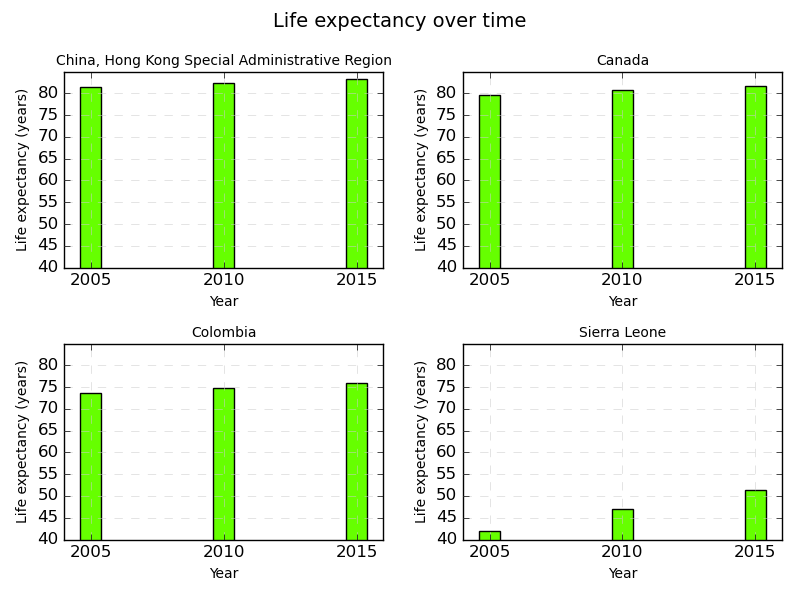
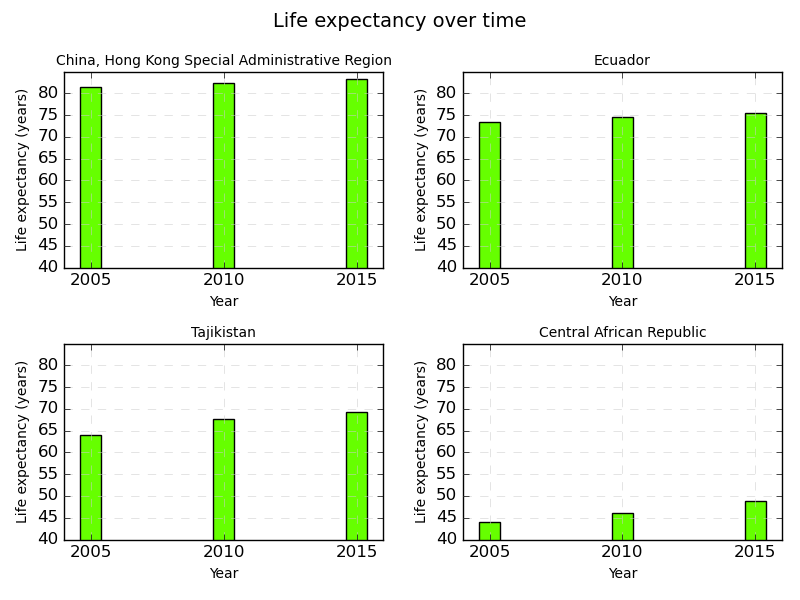
dont hardcode country names

diff --git a/main.py b/main.py
@@ -422,8 +422,6 @@ def export_life_expectancy_as_matplotlib(data: pd.DataFrame) -> None:
     Returns:
         None.
     """
-    plt.style.use("classic")
-    figure = plt.figure()
 
     def _plot_country(country: str) -> None:
         """Plot the data associated to a country.
@@ -449,15 +447,32 @@ def export_life_expectancy_as_matplotlib(data: pd.DataFrame) -> None:
         plt.ylabel("Life expectancy (years)", fontsize=10)
         plt.title(country, fontsize=10)
 
+    plt.style.use("classic")
+    figure = plt.figure()
+
+    # List with the countries ordered by life expectancy
+    countries_sorted: pd.Index = (
+        data.groupby(
+            "Country or Area",
+        )["Life expectancy at birth for both sexes (years)"]
+        .max()
+        .sort_values(ascending=False)
+        .index.unique("Country or Area")
+    )
+
+    # Pick only 4 countries,
+    # the one with max life expectancy,
+    # the one with the min life expectancy,
+    # and 2 in between
+    selected_countries: Tuple[str, ...] = countries_sorted[
+        np.linspace(0, len(countries_sorted) - 1, num=4, dtype=np.uint64)
+    ]
+
     figure.suptitle("Life expectancy over time", fontsize=14)
-    plt.subplot(2, 2, 1)
-    _plot_country("China, Hong Kong Special Administrative Region")
-    plt.subplot(2, 2, 2)
-    _plot_country("Canada")
-    plt.subplot(2, 2, 3)
-    _plot_country("Colombia")
-    plt.subplot(2, 2, 4)
-    _plot_country("Sierra Leone")
+    for index in range(4):
+        plt.subplot(2, 2, index + 1)
+        _plot_country(selected_countries[index])
+
     figure.tight_layout(h_pad=1, w_pad=2)
     figure.savefig("life-expectancy-over-time.png")
 
@@ -471,10 +486,6 @@ def export_total_fertility_rate_as_matplotlib(data: pd.DataFrame) -> None:
     Returns:
         None.
     """
-
-    plt.style.use("classic")
-    figure = plt.figure()
-    figure.suptitle("Total fertility rate", fontsize=14)
 
     def _plot_year(year: int) -> None:
         """Plot the data associated to a year.
@@ -494,8 +505,11 @@ def export_total_fertility_rate_as_matplotlib(data: pd.DataFrame) -> None:
         plt.ylabel("Number of countries", fontsize=10)
         plt.title(f"Year {year}", fontsize=10)
 
-    years = sorted(data.index.unique("Year"))
+    plt.style.use("classic")
+    figure = plt.figure()
+    figure.suptitle("Total fertility rate", fontsize=14)
 
+    years = sorted(data.index.unique("Year"))
     for index, year in enumerate(years, start=1):
         series = data.loc[data.index.get_level_values("Year") == year][
             "Total fertility rate (children per women)"
